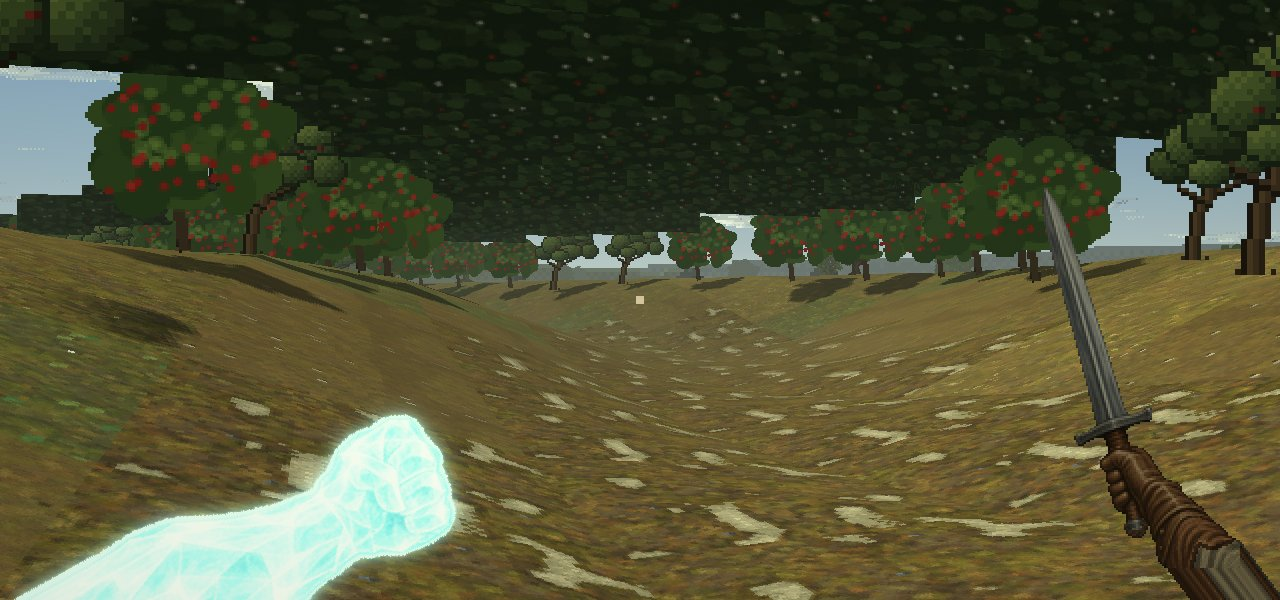
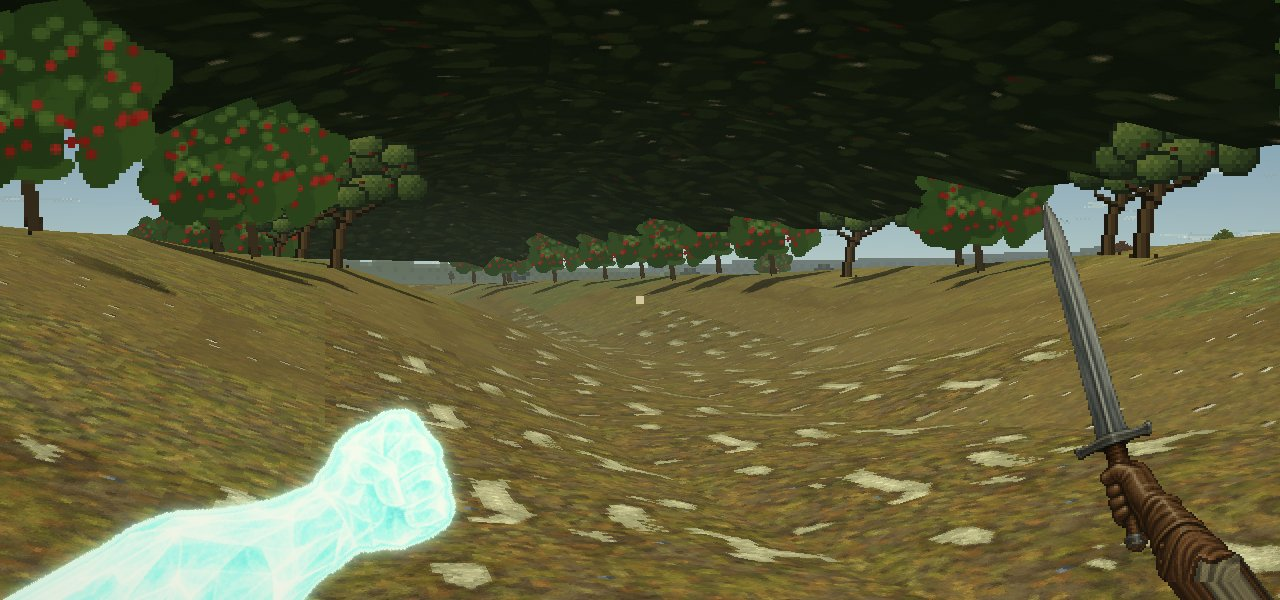
Phase 83: a proper hawthorn canopy over the holloway
The floating slab boxes over the holloway are replaced by an arched roof of
leaves in the 3D view: slices across the lane every three-quarters of a cell,
each a curve from one bank's tree crowns over to the other's, darker
underneath, lumpy on top, ragged at its edges, thinning at both ends of the
holloway, with the bends rounded so the roof never folds over itself and
leaves cracks of sky.

Claude-Session: https://claude.ai/code/session_01UK584LpUxCobsqtiBidtYZ

diff --git a/js/drove83.js b/js/drove83.js
@@ -396,12 +396,42 @@ const DROVE83 = (function () {
     EAVES78.STYLES[HOLLOWS] = { builds: 'nothing built: a holloway under hawthorn', shutters: 'none', only: ['the hawthorn meeting over the holloway'], plan: () => ({ houses: [] }) };
     EAVES78.MAPS.add(HOLLOWS);
     EAVES78.REGION[HOLLOWS] = (m, T) => {
-      const Lh = T.L('t_p83_haw'); let i = 0;
-      along(HROAD.slice(1, 6), 1.1, (x, y) => {
-        i++; if (y < 6 || y > HOLLOWAY_END - 2 || i % 7 === 3) return;          // a gap now and then: the light comes through in pieces
-        const z = Math.max(m.groundAt(x - 2.8, y), m.groundAt(x + 2.8, y)) + 1.15 + h2(i, 3) * 0.25, w = 3.0 + h2(i, 5) * 0.6, o = (h2(i, 7) - 0.5) * 0.5;
-        T.box(x + o - w, y - 0.62, x + o + w, y + 0.62, z, z + 0.85, Lh, Lh, 0.7);
+      // the hawthorn's roof: an arch of leaves resting on the crowns of the two banks' trees, lumpy on top and ragged at
+      // its edges, cut in slices along the lane (each slice a curve across it, from one bank's crowns over to the other's)
+      const Lh = T.L('t_p83_haw'), S = [];
+      const S0 = []; along(HROAD.slice(1, 6), 0.75, (x, y) => { if (y >= 4 && y <= HOLLOWAY_END + 1) S0.push([x, y]); });
+      // round the bends off (a roof three cells wide cannot turn as sharp as the lane does without folding over itself)
+      for (let i = 0; i < S0.length; i++) { let sx = 0, sy = 0, n = 0; for (let j = Math.max(0, i - 8); j <= Math.min(S0.length - 1, i + 8); j++) { sx += S0[j][0]; sy += S0[j][1]; n++; } S.push([sx / n, sy / n]); }
+      const K = 9, rows = [];                                                    // K points across each slice
+      S.forEach(([x, y], i) => {
+        const [ax, ay] = S[Math.max(0, i - 5)], [bx, by] = S[Math.min(S.length - 1, i + 5)], l = Math.hypot(bx - ax, by - ay) || 1, nx = -(by - ay) / l, ny = (bx - ax) / l;
+        const end = Math.min(1, i / 4, (S.length - 1 - i) / 4);                  // the roof thins and drops at either end of the holloway
+        const zL = m.groundAt(x - nx * 2.9, y - ny * 2.9), zR = m.groundAt(x + nx * 2.9, y + ny * 2.9), base = Math.max(zL, zR) + 0.85;
+        const lo = [], hi = [];
+        for (let k = 0; k < K; k++) {
+          const t = k / (K - 1) * 2 - 1, n1 = h2(i * 13 + k, 71), n2 = h2(i * 7 + k * 3, 73);
+          const r = (3.0 + (n1 - 0.5) * 0.7) * (0.75 + 0.25 * end), o = t * r;
+          const arch = (1 - t * t) * (0.75 + n2 * 0.3) * end, edge = Math.abs(t) > 0.99 ? (n2 - 0.5) * 0.35 : 0;
+          const zb = base - 0.25 * (1 - end) + arch + edge, th = (0.18 + 0.4 * (1 - t * t) + n1 * 0.34 + (1 - t * t) * 0.18 * (1 + Math.sin(i * 0.45 + k))) * (0.4 + 0.6 * end);
+          lo.push([x + nx * o, y + ny * o, zb]); hi.push([x + nx * o, y + ny * o, zb + th]);
+        }
+        rows.push({ lo, hi, d: i * 0.75 });
       });
+      const nrm = (a, b, c, up) => { const ux = b[0] - a[0], uy = b[1] - a[1], uz = b[2] - a[2], vx = c[0] - a[0], vy = c[1] - a[1], vz = c[2] - a[2]; let X = uy * vz - uz * vy, Y = uz * vx - ux * vz, Z = ux * vy - uy * vx; const L = Math.hypot(X, Y, Z) || 1; X /= L; Y /= L; Z /= L; if ((Z > 0) !== up) { X = -X; Y = -Y; Z = -Z; } return [X, Y, Z]; };
+      for (let i = 0; i + 1 < rows.length; i++) {
+        const A = rows[i], B = rows[i + 1], u0 = A.d / 2.2, u1 = B.d / 2.2;
+        for (let k = 0; k + 1 < K; k++) {
+          const v0 = k / (K - 1) * 2.6, v1 = (k + 1) / (K - 1) * 2.6;
+          // underneath, darker: what you see walking in the tunnel
+          T.quad([A.lo[k], A.lo[k + 1], B.lo[k + 1], B.lo[k]], [[u0, v0], [u0, v1], [u1, v1], [u1, v0]], Lh, T.MAT.wall, 0.55, nrm(A.lo[k], A.lo[k + 1], B.lo[k], false));
+          // on top, lighter and lumpy: what you see from the down above it
+          T.quad([A.hi[k], A.hi[k + 1], B.hi[k + 1], B.hi[k]], [[u0, v0], [u0, v1], [u1, v1], [u1, v0]], Lh, T.MAT.wall, 0.92, nrm(A.hi[k], A.hi[k + 1], B.hi[k], true));
+        }
+        // the ragged edges along both banks, where the roof comes down into the crowns
+        for (const k of [0, K - 1]) T.quad([A.lo[k], B.lo[k], B.hi[k], A.hi[k]], [[u0, 0], [u1, 0], [u1, 0.4], [u0, 0.4]], Lh, T.MAT.wall, 0.7, k ? [rows[i].hi[k][0] - rows[i].hi[k - 1][0], rows[i].hi[k][1] - rows[i].hi[k - 1][1], 0] : [rows[i].hi[0][0] - rows[i].hi[1][0], rows[i].hi[0][1] - rows[i].hi[1][1], 0]);
+      }
+      // the two ends of the roof, closed
+      for (const R of [rows[0], rows[rows.length - 1]]) if (R) for (let k = 0; k + 1 < K; k++) T.quad([R.lo[k], R.lo[k + 1], R.hi[k + 1], R.hi[k]], [[k / 4, 0], [(k + 1) / 4, 0], [(k + 1) / 4, 0.4], [k / 4, 0.4]], Lh, T.MAT.wall, 0.75, [0, R === rows[0] ? -1 : 1, 0]);
       if (mistNow()) {                                                         // the white sea over the combe end
         const Lm = T.L('t_p83_mist'), y0 = TERRACE_Y + 6;
         for (let y = y0; y < HH - 1; y += 8) for (let x = 1; x < HW - 1; x += 8) { const x1 = Math.min(HW - 1, x + 8), y1 = Math.min(HH - 1, y + 8);

diff --git a/sw.js b/sw.js
@@ -18,7 +18,7 @@
 //
 // <precache:begin>
 // Generated by tools/pwa/precache.js from index.html and the asset folders. Do not edit by hand; run the tool.
-const BUILD = "7e096d5e93b1";
+const BUILD = "ef6a7ef1f4fd";
 const MEDIA_BUILD = "c5fd6c87c6e6";
 const MEDIA_BYTES = 61879958;
 const CORE = [
@@ -225,7 +225,7 @@ const CORE = [
   "js/doors.js?v=31",
   "js/dread.js?v=1",
   "js/dreams.js?v=34",
-  "js/drove83.js?v=3",
+  "js/drove83.js?v=4",
   "js/eaves78.js?v=9",
   "js/eaves82.js?v=1",
   "js/enemy-fx.js?v=31",

diff --git a/index.html b/index.html
@@ -267,7 +267,7 @@
   <script src="js/pixelfolk75.js?v=3"></script>
   <script src="js/paintfolk76.js?v=4"></script>
   <script src="js/flume83.js?v=3"></script>
-  <script src="js/drove83.js?v=3"></script>
+  <script src="js/drove83.js?v=4"></script>
   <script src="js/bearings82b.js?v=5"></script>
   <script src="js/boards82b.js?v=4"></script>
 </body>

diff --git a/story/Game Layer/Phase 83 - New In-Game Text (for review).md b/story/Game Layer/Phase 83 - New In-Game Text (for review).md
@@ -106,7 +106,7 @@ From the world plan, "Road 3. The drove road" (approved by the owner, 13 Nov 202
 
 1. **The road between the stile and Wethercombe.** The stile in the Watch Downs' south hedge used to drop straight into Wethercombe. It now opens on the drove road, in two stretches, and Wethercombe's way up comes out at the foot of the second. Nothing else about the Downs or the combe changes; the Downs stay danger 0, "the quiet way in".
 2. **The Grey Wethers** (120 by 160 cells, danger 0). The drove road, six cells wide and green with the cart-ruts down its middle, swings round the head of a dry valley and runs through a flock of about a hundred grey sarsens lying in the grass like sheep lying down, past a dew-pond (a chalk dish, full) to **the Three Pines**, the drovers' halt, where the returners have stopped with their handcart. A **pinfold** of flint and chalk stands near the halt with a **tally-stick** in its wall; a **drover's cache** is under the middle pine. Every stone gives a note when you knock it; **in a high wind the flock sounds by itself**, faintly, one stone after another.
-3. **The Hundred Hollows** (110 by 170 cells, danger 1). The road narrows into **a holloway**, sunk between its banks with hawthorn on both sides meeting overhead (in the 3D view a green roof with the light coming through in pieces), and comes out on a down that is all grassed-over pits, a hundred of them; then down by **terraces** into Wethercombe. **One hollow is not grassed over**: white chalk and a dark mouth going down (the Antler Galleries, Phase 85; nothing opens yet). **Hounds den in three of the hollows after dark** and are gone by day.
+3. **The Hundred Hollows** (110 by 170 cells, danger 1). The road narrows into **a holloway**, sunk between its banks with hawthorn on both sides meeting overhead (in the 3D view an arched roof of leaves resting on the crowns of the trees on both banks, darker underneath and lumpy on top; reworked at the owner's word, 13 Nov: "update the way it looks so that there is a proper canopy"), and comes out on a down that is all grassed-over pits, a hundred of them; then down by **terraces** into Wethercombe. **One hollow is not grassed over**: white chalk and a dark mouth going down (the Antler Galleries, Phase 85; nothing opens yet). **Hounds den in three of the hollows after dark** and are gone by day.
 4. **The old woman's task.** She is a drover's daughter among the returners and cannot climb to the stones. Five Wethers carry her father's red raddle, one stroke to five; the drovers' call goes **three, one, four, two, five**, and she hums it. Struck in that order (use a stone to knock it) the call goes out over the down and she pays 6 sovereigns, with experience and a journal line, once. Out of order the stones only clang: the call starts again, and it is noise.
 5. **The people:** the returners (a man pulling the cart, his wife, their boy, and his mother, the old woman), camped at the Three Pines, with a small fire there at night; a furze-cutter by day among the furze on the east side, cutting faggots for the beacons.
 6. **At night** the three fold-fires (`js/sheepwalk22.js`), once lit, show from the road as fires on three hills, each in the direction of its own hill. **At dawn after a wet night** (rain between eight at night and five in the morning) the combe end fills with mist until half past eight: in the 3D view a white sea at one level over the low terraces, the higher ground standing out of it.
